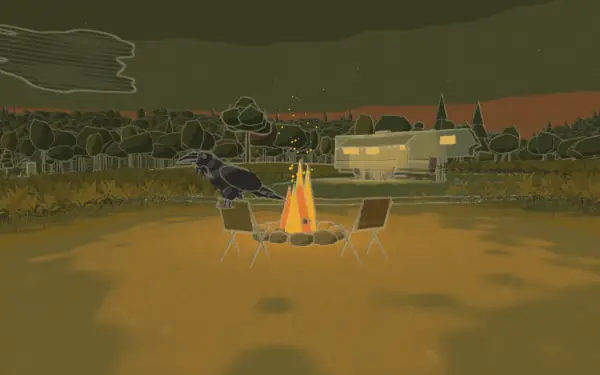
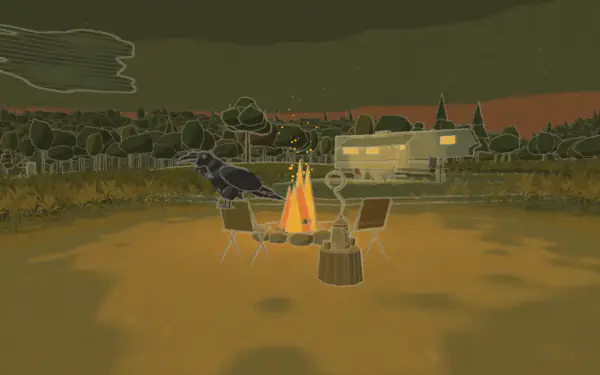
Buy us a coffee, by the fire: a pot and two mugs on a stump, and one line in the card
Chad likes how the coffee is worked into /road (the gas pump under the big
cup) and wanted the same on the home page, in this site's own look.

At the fire stop there is now an enamel coffee pot and two mugs on a stump,
with steam that curls round into a ring. Tap it and it says "same old cycle.
water, fire, coffee." Under that stop's buttons sits one small line with a
goldenrod mug: "The fire runs on dead wood. We run on coffee. If the films
are worth a cup to you, you can buy us a coffee." It is the only coffee link
on the page now: the plain one in the say hi card moved here.

The still print for the plain page was shot again so the pot is in it.

Changed region(s): [[0.51, 0.528, 0.63, 0.7627], [0.54, 0.44, 0.6, 0.528], [0.48, 0.44, 0.51, 0.4693]]

diff --git a/index.html b/index.html
@@ -28,7 +28,7 @@
 <link rel="stylesheet" href="style.css?v=29bf8e89">
 <script>var R=document.documentElement;R.classList.add("js");setTimeout(function(){if(!window.SOS_READY)R.classList.remove("js");},3000);try{var t=localStorage.getItem("sos_theme");if(t==="night"||t==="day")R.dataset.theme=t;}catch(_){}var U=navigator.userAgent,A=/Instagram/.test(U)?"instagram":/FBAN|FBAV/.test(U)?"facebook":/musical_ly|Bytedance|TikTok/i.test(U)?"tiktok":/Pinterest/.test(U)?"pinterest":"";if(A)R.dataset.app=A;if(A==="pinterest"||/pinterest\./i.test(document.referrer))R.dataset.from="pin";</script>
 <style>:root{--ring-url:url("images/ring-norules-pepper.svg");--mark-url:url("images/mark-pepper.svg");}</style>
-<link rel="stylesheet" href="walk/walk.css?v=68c496a7">
+<link rel="stylesheet" href="walk/walk.css?v=1aa94919">
 <script>(function(){var d=document.documentElement,q=location.search,gl=false,calm=false;try{gl=!!document.createElement("canvas").getContext("webgl2");calm=matchMedia("(prefers-reduced-motion: reduce)").matches;}catch(_){}var on=gl&&!/[?&]plain\b/.test(q)&&(!calm||/[?&]walk\b/.test(q));d.classList.add(on?"walk-on":"walk-plain");if(gl&&!on)d.classList.add("walk-can");if(on)setTimeout(function(){if(!window.SOS_WALK){d.classList.remove("walk-on");d.classList.add("walk-plain");}},8000);})();</script>
 <script type="application/ld+json">{"@context": "https://schema.org", "@type": "Organization", "name": "Same Old Samsara", "url": "https://sameoldsamsara.xyz/", "logo": "https://sameoldsamsara.xyz/favicon/web-app-manifest-512x512.png", "description": "Same Old Samsara is the creative outlet of Chad and Daniel: a documentary about building a homestead on 34 acres in Central New York, handmade beaded jewelry, and brick stitch and bead loom patterns.", "sameAs": ["https://www.youtube.com/@sameoldsamsara", "https://instagram.com/sameoldsamsara", "https://tiktok.com/@sameoldsamsara", "https://pinterest.com/sameoldsamsara", "https://sameoldsamsara.etsy.com", "https://samsaradigitals.etsy.com"]}</script>
 <script type="application/ld+json">{"@context": "https://schema.org", "@type": "WebSite", "name": "Same Old Samsara", "url": "https://sameoldsamsara.xyz/"}</script>
@@ -122,12 +122,12 @@
     </div>
   </article>
   <article class="stop right" id="stop-follow" data-stop="6">
-    <picture><source type="image/webp" media="(max-width: 760px)" srcset="images/r/walk/6-follow-480.webp 480w, images/r/walk/6-follow-600.webp 600w" sizes="330px"><source type="image/webp" srcset="images/r/walk/6-follow-720.webp 720w, images/walk/6-follow.webp 1280w" sizes="620px"><img class="still" src="images/walk/6-follow.webp" alt="A print of a campfire at nightfall with two camp chairs pulled up to it, a raven on the back of one, and a camper with its windows lit in the distance." width="1280" height="800" loading="lazy" decoding="async"></picture>
+    <picture><source type="image/webp" media="(max-width: 760px)" srcset="images/r/walk/6-follow-480.webp 480w, images/r/walk/6-follow-600.webp 600w" sizes="330px"><source type="image/webp" srcset="images/r/walk/6-follow-720.webp 720w, images/walk/6-follow.webp 1280w" sizes="620px"><img class="still" src="images/walk/6-follow.webp" alt="A print of a campfire at nightfall with two camp chairs pulled up to it, a raven on the back of one, a coffee pot and two mugs on a stump by the fire, and a camper with its windows lit in the distance." width="1280" height="800" loading="lazy" decoding="async"></picture>
     <div class="card"><span class="was" id="follow"></span>
       <p class="label where"><span>stop 6 of 8</span><span class="light">dusk</span></p>
       <h2>follow along</h2>
       <p>Pull up a chair. New films go up on YouTube first. The small stuff in between goes everywhere else.</p>
-      <div class="btns"><a class="btn solid" href="https://www.youtube.com/@sameoldsamsara" target="_blank" rel="noopener">youtube</a><a class="btn" href="https://instagram.com/sameoldsamsara" target="_blank" rel="noopener">instagram</a><a class="btn" href="https://tiktok.com/@sameoldsamsara" target="_blank" rel="noopener">tiktok</a><a class="btn" href="https://pinterest.com/sameoldsamsara" target="_blank" rel="noopener">pinterest</a></div>
+      <div class="btns"><a class="btn solid" href="https://www.youtube.com/@sameoldsamsara" target="_blank" rel="noopener">youtube</a><a class="btn" href="https://instagram.com/sameoldsamsara" target="_blank" rel="noopener">instagram</a><a class="btn" href="https://tiktok.com/@sameoldsamsara" target="_blank" rel="noopener">tiktok</a><a class="btn" href="https://pinterest.com/sameoldsamsara" target="_blank" rel="noopener">pinterest</a></div><p class="cup"><svg class="cup-i" viewBox="0 0 40 50" aria-hidden="true"><path class="st" d="M19.5 22c-3.4-3.6 3-6.2-.2-10.4a4.3 4.3 0 1 1-3.9 2.6"/><path class="mug" d="M8 26h21v13a6 6 0 0 1-6 6h-9a6 6 0 0 1-6-6z"/><path d="M29 30h2.5a4 4 0 0 1 0 8H29"/><path d="M11.5 31.5v8"/></svg><span>The fire runs on dead wood. We run on coffee. If the films are worth a cup to you, you can <a href="https://buymeacoffee.com/sameoldsamsara" target="_blank" rel="noopener">buy us a coffee</a>.</span></p>
     </div>
   </article>
   <article class="stop left" id="stop-say-hi" data-stop="7">
@@ -136,7 +136,7 @@
       <p class="label where"><span>stop 7 of 8</span><span class="light">night</span></p>
       <h2>say hi</h2>
       <div class="us"><picture><source type="image/webp" srcset="images/r/daniel_and_chad-240.webp 240w" sizes="(max-width: 760px) 96px, 96px"><img src="images/daniel_and_chad.webp" alt="Chad and Daniel, side by side in front of a wooden fence" width="440" height="440" loading="lazy" decoding="async"></picture><p>That's us. Write to us, we read everything. Or sign up for the newsletter and we'll write when there's something worth saying.</p></div>
-      <div class="btns"><a class="btn solid" href="say-hi/" data-hi="74776c3877706976714b7a6c6a777a7569767f707578">email us</a><a class="btn" href="https://instagram.com/sameoldsamsara" target="_blank" rel="noopener">message us on instagram</a><a class="btn" href="https://docs.google.com/forms/d/e/1FAIpQLScRgNsfZYcnLNtfIYfRxKKghsxMu-UJ_4P8csSh8ErWM_AfNA/viewform?usp=header" target="_blank" rel="noopener">the newsletter</a><a class="btn" href="https://buymeacoffee.com/sameoldsamsara" target="_blank" rel="noopener">buy us a coffee</a><a class="btn" href="about/">who we are</a></div>
+      <div class="btns"><a class="btn solid" href="say-hi/" data-hi="74776c3877706976714b7a6c6a777a7569767f707578">email us</a><a class="btn" href="https://instagram.com/sameoldsamsara" target="_blank" rel="noopener">message us on instagram</a><a class="btn" href="https://docs.google.com/forms/d/e/1FAIpQLScRgNsfZYcnLNtfIYfRxKKghsxMu-UJ_4P8csSh8ErWM_AfNA/viewform?usp=header" target="_blank" rel="noopener">the newsletter</a><a class="btn" href="about/">who we are</a></div>
     </div>
   </article>
   <article class="stop left" id="stop-road" data-stop="8">
@@ -156,7 +156,7 @@
     </div>
   </div>
 </div>
-</section></main><script type="module" src="walk/walk.js?v=3d059c28"></script><footer class="foot"><div class="wrap">
+</section></main><script type="module" src="walk/walk.js?v=174125a2"></script><footer class="foot"><div class="wrap">
   <div class="foot-ring" aria-hidden="true"></div>
   <p class="tagline">the same old cycle.</p>
   <nav class="foot-follow" aria-label="follow along"><span class="label">follow along</span><a href="https://www.youtube.com/@sameoldsamsara" target="_blank" rel="noopener">youtube</a><a href="https://instagram.com/sameoldsamsara" target="_blank" rel="noopener">instagram</a><a href="https://tiktok.com/@sameoldsamsara" target="_blank" rel="noopener">tiktok</a><a href="https://pinterest.com/sameoldsamsara" target="_blank" rel="noopener">pinterest</a></nav>

diff --git a/ig/index.html b/ig/index.html
@@ -28,7 +28,7 @@
 <link rel="stylesheet" href="../style.css?v=29bf8e89">
 <script>var R=document.documentElement;R.classList.add("js");setTimeout(function(){if(!window.SOS_READY)R.classList.remove("js");},3000);try{var t=localStorage.getItem("sos_theme");if(t==="night"||t==="day")R.dataset.theme=t;}catch(_){}var U=navigator.userAgent,A=/Instagram/.test(U)?"instagram":/FBAN|FBAV/.test(U)?"facebook":/musical_ly|Bytedance|TikTok/i.test(U)?"tiktok":/Pinterest/.test(U)?"pinterest":"";if(A)R.dataset.app=A;if(A==="pinterest"||/pinterest\./i.test(document.referrer))R.dataset.from="pin";</script>
 <style>:root{--ring-url:url("../images/ring-norules-pepper.svg");--mark-url:url("../images/mark-pepper.svg");}</style>
-<link rel="stylesheet" href="../walk/walk.css?v=68c496a7">
+<link rel="stylesheet" href="../walk/walk.css?v=1aa94919">
 <script>(function(){var d=document.documentElement,q=location.search,gl=false,calm=false;try{gl=!!document.createElement("canvas").getContext("webgl2");calm=matchMedia("(prefers-reduced-motion: reduce)").matches;}catch(_){}var on=gl&&!/[?&]plain\b/.test(q)&&(!calm||/[?&]walk\b/.test(q));d.classList.add(on?"walk-on":"walk-plain");if(gl&&!on)d.classList.add("walk-can");if(on)setTimeout(function(){if(!window.SOS_WALK){d.classList.remove("walk-on");d.classList.add("walk-plain");}},8000);})();</script>
 </head>
 <body class="has-walk">
@@ -119,12 +119,12 @@
     </div>
   </article>
   <article class="stop right" id="stop-follow" data-stop="6">
-    <picture><source type="image/webp" media="(max-width: 760px)" srcset="../images/r/walk/6-follow-480.webp 480w, ../images/r/walk/6-follow-600.webp 600w" sizes="330px"><source type="image/webp" srcset="../images/r/walk/6-follow-720.webp 720w, ../images/walk/6-follow.webp 1280w" sizes="620px"><img class="still" src="../images/walk/6-follow.webp" alt="A print of a campfire at nightfall with two camp chairs pulled up to it, a raven on the back of one, and a camper with its windows lit in the distance." width="1280" height="800" loading="lazy" decoding="async"></picture>
+    <picture><source type="image/webp" media="(max-width: 760px)" srcset="../images/r/walk/6-follow-480.webp 480w, ../images/r/walk/6-follow-600.webp 600w" sizes="330px"><source type="image/webp" srcset="../images/r/walk/6-follow-720.webp 720w, ../images/walk/6-follow.webp 1280w" sizes="620px"><img class="still" src="../images/walk/6-follow.webp" alt="A print of a campfire at nightfall with two camp chairs pulled up to it, a raven on the back of one, a coffee pot and two mugs on a stump by the fire, and a camper with its windows lit in the distance." width="1280" height="800" loading="lazy" decoding="async"></picture>
     <div class="card"><span class="was" id="follow"></span>
       <p class="label where"><span>stop 6 of 8</span><span class="light">dusk</span></p>
       <h2>follow along</h2>
       <p>Pull up a chair. New films go up on YouTube first. The small stuff in between goes everywhere else.</p>
-      <div class="btns"><a class="btn solid" href="https://www.youtube.com/@sameoldsamsara" target="_blank" rel="noopener">youtube</a><a class="btn" href="https://instagram.com/sameoldsamsara" target="_blank" rel="noopener">instagram</a><a class="btn" href="https://tiktok.com/@sameoldsamsara" target="_blank" rel="noopener">tiktok</a><a class="btn" href="https://pinterest.com/sameoldsamsara" target="_blank" rel="noopener">pinterest</a></div>
+      <div class="btns"><a class="btn solid" href="https://www.youtube.com/@sameoldsamsara" target="_blank" rel="noopener">youtube</a><a class="btn" href="https://instagram.com/sameoldsamsara" target="_blank" rel="noopener">instagram</a><a class="btn" href="https://tiktok.com/@sameoldsamsara" target="_blank" rel="noopener">tiktok</a><a class="btn" href="https://pinterest.com/sameoldsamsara" target="_blank" rel="noopener">pinterest</a></div><p class="cup"><svg class="cup-i" viewBox="0 0 40 50" aria-hidden="true"><path class="st" d="M19.5 22c-3.4-3.6 3-6.2-.2-10.4a4.3 4.3 0 1 1-3.9 2.6"/><path class="mug" d="M8 26h21v13a6 6 0 0 1-6 6h-9a6 6 0 0 1-6-6z"/><path d="M29 30h2.5a4 4 0 0 1 0 8H29"/><path d="M11.5 31.5v8"/></svg><span>The fire runs on dead wood. We run on coffee. If the films are worth a cup to you, you can <a href="https://buymeacoffee.com/sameoldsamsara" target="_blank" rel="noopener">buy us a coffee</a>.</span></p>
     </div>
   </article>
   <article class="stop left" id="stop-say-hi" data-stop="7">
@@ -133,7 +133,7 @@
       <p class="label where"><span>stop 7 of 8</span><span class="light">night</span></p>
       <h2>say hi</h2>
       <div class="us"><picture><source type="image/webp" srcset="../images/r/daniel_and_chad-240.webp 240w" sizes="(max-width: 760px) 96px, 96px"><img src="../images/daniel_and_chad.webp" alt="Chad and Daniel, side by side in front of a wooden fence" width="440" height="440" loading="lazy" decoding="async"></picture><p>That's us. Write to us, we read everything. Or sign up for the newsletter and we'll write when there's something worth saying.</p></div>
-      <div class="btns"><a class="btn solid" href="../say-hi/" data-hi="74776c3877706976714b7a6c6a777a7569767f707578">email us</a><a class="btn" href="https://instagram.com/sameoldsamsara" target="_blank" rel="noopener">message us on instagram</a><a class="btn" href="https://docs.google.com/forms/d/e/1FAIpQLScRgNsfZYcnLNtfIYfRxKKghsxMu-UJ_4P8csSh8ErWM_AfNA/viewform?usp=header" target="_blank" rel="noopener">the newsletter</a><a class="btn" href="https://buymeacoffee.com/sameoldsamsara" target="_blank" rel="noopener">buy us a coffee</a><a class="btn" href="../about/">who we are</a></div>
+      <div class="btns"><a class="btn solid" href="../say-hi/" data-hi="74776c3877706976714b7a6c6a777a7569767f707578">email us</a><a class="btn" href="https://instagram.com/sameoldsamsara" target="_blank" rel="noopener">message us on instagram</a><a class="btn" href="https://docs.google.com/forms/d/e/1FAIpQLScRgNsfZYcnLNtfIYfRxKKghsxMu-UJ_4P8csSh8ErWM_AfNA/viewform?usp=header" target="_blank" rel="noopener">the newsletter</a><a class="btn" href="../about/">who we are</a></div>
     </div>
   </article>
   <article class="stop left" id="stop-road" data-stop="8">
@@ -153,7 +153,7 @@
     </div>
   </div>
 </div>
-</section></main><script type="module" src="../walk/walk.js?v=3d059c28"></script><footer class="foot"><div class="wrap">
+</section></main><script type="module" src="../walk/walk.js?v=174125a2"></script><footer class="foot"><div class="wrap">
   <div class="foot-ring" aria-hidden="true"></div>
   <p class="tagline">the same old cycle.</p>
   <nav class="foot-follow" aria-label="follow along"><span class="label">follow along</span><a href="https://www.youtube.com/@sameoldsamsara" target="_blank" rel="noopener">youtube</a><a href="https://instagram.com/sameoldsamsara" target="_blank" rel="noopener">instagram</a><a href="https://tiktok.com/@sameoldsamsara" target="_blank" rel="noopener">tiktok</a><a href="https://pinterest.com/sameoldsamsara" target="_blank" rel="noopener">pinterest</a></nav>

diff --git a/pin/index.html b/pin/index.html
@@ -28,7 +28,7 @@
 <link rel="stylesheet" href="../style.css?v=29bf8e89">
 <script>var R=document.documentElement;R.classList.add("js");setTimeout(function(){if(!window.SOS_READY)R.classList.remove("js");},3000);try{var t=localStorage.getItem("sos_theme");if(t==="night"||t==="day")R.dataset.theme=t;}catch(_){}var U=navigator.userAgent,A=/Instagram/.test(U)?"instagram":/FBAN|FBAV/.test(U)?"facebook":/musical_ly|Bytedance|TikTok/i.test(U)?"tiktok":/Pinterest/.test(U)?"pinterest":"";if(A)R.dataset.app=A;if(A==="pinterest"||/pinterest\./i.test(document.referrer))R.dataset.from="pin";</script>
 <style>:root{--ring-url:url("../images/ring-norules-pepper.svg");--mark-url:url("../images/mark-pepper.svg");}</style>
-<link rel="stylesheet" href="../walk/walk.css?v=68c496a7">
+<link rel="stylesheet" href="../walk/walk.css?v=1aa94919">
 <script>(function(){var d=document.documentElement,q=location.search,gl=false,calm=false;try{gl=!!document.createElement("canvas").getContext("webgl2");calm=matchMedia("(prefers-reduced-motion: reduce)").matches;}catch(_){}var on=gl&&!/[?&]plain\b/.test(q)&&(!calm||/[?&]walk\b/.test(q));d.classList.add(on?"walk-on":"walk-plain");if(gl&&!on)d.classList.add("walk-can");if(on)setTimeout(function(){if(!window.SOS_WALK){d.classList.remove("walk-on");d.classList.add("walk-plain");}},8000);})();</script>
 </head>
 <body class="has-walk">
@@ -119,12 +119,12 @@
     </div>
   </article>
   <article class="stop right" id="stop-follow" data-stop="6">
-    <picture><source type="image/webp" media="(max-width: 760px)" srcset="../images/r/walk/6-follow-480.webp 480w, ../images/r/walk/6-follow-600.webp 600w" sizes="330px"><source type="image/webp" srcset="../images/r/walk/6-follow-720.webp 720w, ../images/walk/6-follow.webp 1280w" sizes="620px"><img class="still" src="../images/walk/6-follow.webp" alt="A print of a campfire at nightfall with two camp chairs pulled up to it, a raven on the back of one, and a camper with its windows lit in the distance." width="1280" height="800" loading="lazy" decoding="async"></picture>
+    <picture><source type="image/webp" media="(max-width: 760px)" srcset="../images/r/walk/6-follow-480.webp 480w, ../images/r/walk/6-follow-600.webp 600w" sizes="330px"><source type="image/webp" srcset="../images/r/walk/6-follow-720.webp 720w, ../images/walk/6-follow.webp 1280w" sizes="620px"><img class="still" src="../images/walk/6-follow.webp" alt="A print of a campfire at nightfall with two camp chairs pulled up to it, a raven on the back of one, a coffee pot and two mugs on a stump by the fire, and a camper with its windows lit in the distance." width="1280" height="800" loading="lazy" decoding="async"></picture>
     <div class="card"><span class="was" id="follow"></span>
       <p class="label where"><span>stop 6 of 8</span><span class="light">dusk</span></p>
       <h2>follow along</h2>
       <p>Pull up a chair. New films go up on YouTube first. The small stuff in between goes everywhere else.</p>
-      <div class="btns"><a class="btn solid" href="https://www.youtube.com/@sameoldsamsara" target="_blank" rel="noopener">youtube</a><a class="btn" href="https://instagram.com/sameoldsamsara" target="_blank" rel="noopener">instagram</a><a class="btn" href="https://tiktok.com/@sameoldsamsara" target="_blank" rel="noopener">tiktok</a><a class="btn" href="https://pinterest.com/sameoldsamsara" target="_blank" rel="noopener">pinterest</a></div>
+      <div class="btns"><a class="btn solid" href="https://www.youtube.com/@sameoldsamsara" target="_blank" rel="noopener">youtube</a><a class="btn" href="https://instagram.com/sameoldsamsara" target="_blank" rel="noopener">instagram</a><a class="btn" href="https://tiktok.com/@sameoldsamsara" target="_blank" rel="noopener">tiktok</a><a class="btn" href="https://pinterest.com/sameoldsamsara" target="_blank" rel="noopener">pinterest</a></div><p class="cup"><svg class="cup-i" viewBox="0 0 40 50" aria-hidden="true"><path class="st" d="M19.5 22c-3.4-3.6 3-6.2-.2-10.4a4.3 4.3 0 1 1-3.9 2.6"/><path class="mug" d="M8 26h21v13a6 6 0 0 1-6 6h-9a6 6 0 0 1-6-6z"/><path d="M29 30h2.5a4 4 0 0 1 0 8H29"/><path d="M11.5 31.5v8"/></svg><span>The fire runs on dead wood. We run on coffee. If the films are worth a cup to you, you can <a href="https://buymeacoffee.com/sameoldsamsara" target="_blank" rel="noopener">buy us a coffee</a>.</span></p>
     </div>
   </article>
   <article class="stop left" id="stop-say-hi" data-stop="7">
@@ -133,7 +133,7 @@
       <p class="label where"><span>stop 7 of 8</span><span class="light">night</span></p>
       <h2>say hi</h2>
       <div class="us"><picture><source type="image/webp" srcset="../images/r/daniel_and_chad-240.webp 240w" sizes="(max-width: 760px) 96px, 96px"><img src="../images/daniel_and_chad.webp" alt="Chad and Daniel, side by side in front of a wooden fence" width="440" height="440" loading="lazy" decoding="async"></picture><p>That's us. Write to us, we read everything. Or sign up for the newsletter and we'll write when there's something worth saying.</p></div>
-      <div class="btns"><a class="btn solid" href="../say-hi/" data-hi="74776c3877706976714b7a6c6a777a7569767f707578">email us</a><a class="btn" href="https://instagram.com/sameoldsamsara" target="_blank" rel="noopener">message us on instagram</a><a class="btn" href="https://docs.google.com/forms/d/e/1FAIpQLScRgNsfZYcnLNtfIYfRxKKghsxMu-UJ_4P8csSh8ErWM_AfNA/viewform?usp=header" target="_blank" rel="noopener">the newsletter</a><a class="btn" href="https://buymeacoffee.com/sameoldsamsara" target="_blank" rel="noopener">buy us a coffee</a><a class="btn" href="../about/">who we are</a></div>
+      <div class="btns"><a class="btn solid" href="../say-hi/" data-hi="74776c3877706976714b7a6c6a777a7569767f707578">email us</a><a class="btn" href="https://instagram.com/sameoldsamsara" target="_blank" rel="noopener">message us on instagram</a><a class="btn" href="https://docs.google.com/forms/d/e/1FAIpQLScRgNsfZYcnLNtfIYfRxKKghsxMu-UJ_4P8csSh8ErWM_AfNA/viewform?usp=header" target="_blank" rel="noopener">the newsletter</a><a class="btn" href="../about/">who we are</a></div>
     </div>
   </article>
   <article class="stop left" id="stop-road" data-stop="8">
@@ -153,7 +153,7 @@
     </div>
   </div>
 </div>
-</section></main><script type="module" src="../walk/walk.js?v=3d059c28"></script><footer class="foot"><div class="wrap">
+</section></main><script type="module" src="../walk/walk.js?v=174125a2"></script><footer class="foot"><div class="wrap">
   <div class="foot-ring" aria-hidden="true"></div>
   <p class="tagline">the same old cycle.</p>
   <nav class="foot-follow" aria-label="follow along"><span class="label">follow along</span><a href="https://www.youtube.com/@sameoldsamsara" target="_blank" rel="noopener">youtube</a><a href="https://instagram.com/sameoldsamsara" target="_blank" rel="noopener">instagram</a><a href="https://tiktok.com/@sameoldsamsara" target="_blank" rel="noopener">tiktok</a><a href="https://pinterest.com/sameoldsamsara" target="_blank" rel="noopener">pinterest</a></nav>

diff --git a/yt/index.html b/yt/index.html
@@ -28,7 +28,7 @@
 <link rel="stylesheet" href="../style.css?v=29bf8e89">
 <script>var R=document.documentElement;R.classList.add("js");setTimeout(function(){if(!window.SOS_READY)R.classList.remove("js");},3000);try{var t=localStorage.getItem("sos_theme");if(t==="night"||t==="day")R.dataset.theme=t;}catch(_){}var U=navigator.userAgent,A=/Instagram/.test(U)?"instagram":/FBAN|FBAV/.test(U)?"facebook":/musical_ly|Bytedance|TikTok/i.test(U)?"tiktok":/Pinterest/.test(U)?"pinterest":"";if(A)R.dataset.app=A;if(A==="pinterest"||/pinterest\./i.test(document.referrer))R.dataset.from="pin";</script>
 <style>:root{--ring-url:url("../images/ring-norules-pepper.svg");--mark-url:url("../images/mark-pepper.svg");}</style>
-<link rel="stylesheet" href="../walk/walk.css?v=68c496a7">
+<link rel="stylesheet" href="../walk/walk.css?v=1aa94919">
 <script>(function(){var d=document.documentElement,q=location.search,gl=false,calm=false;try{gl=!!document.createElement("canvas").getContext("webgl2");calm=matchMedia("(prefers-reduced-motion: reduce)").matches;}catch(_){}var on=gl&&!/[?&]plain\b/.test(q)&&(!calm||/[?&]walk\b/.test(q));d.classList.add(on?"walk-on":"walk-plain");if(gl&&!on)d.classList.add("walk-can");if(on)setTimeout(function(){if(!window.SOS_WALK){d.classList.remove("walk-on");d.classList.add("walk-plain");}},8000);})();</script>
 </head>
 <body class="has-walk">
@@ -119,12 +119,12 @@
     </div>
   </article>
   <article class="stop right" id="stop-follow" data-stop="6">
-    <picture><source type="image/webp" media="(max-width: 760px)" srcset="../images/r/walk/6-follow-480.webp 480w, ../images/r/walk/6-follow-600.webp 600w" sizes="330px"><source type="image/webp" srcset="../images/r/walk/6-follow-720.webp 720w, ../images/walk/6-follow.webp 1280w" sizes="620px"><img class="still" src="../images/walk/6-follow.webp" alt="A print of a campfire at nightfall with two camp chairs pulled up to it, a raven on the back of one, and a camper with its windows lit in the distance." width="1280" height="800" loading="lazy" decoding="async"></picture>
+    <picture><source type="image/webp" media="(max-width: 760px)" srcset="../images/r/walk/6-follow-480.webp 480w, ../images/r/walk/6-follow-600.webp 600w" sizes="330px"><source type="image/webp" srcset="../images/r/walk/6-follow-720.webp 720w, ../images/walk/6-follow.webp 1280w" sizes="620px"><img class="still" src="../images/walk/6-follow.webp" alt="A print of a campfire at nightfall with two camp chairs pulled up to it, a raven on the back of one, a coffee pot and two mugs on a stump by the fire, and a camper with its windows lit in the distance." width="1280" height="800" loading="lazy" decoding="async"></picture>
     <div class="card"><span class="was" id="follow"></span>
       <p class="label where"><span>stop 6 of 8</span><span class="light">dusk</span></p>
       <h2>follow along</h2>
       <p>Pull up a chair. New films go up on YouTube first. The small stuff in between goes everywhere else.</p>
-      <div class="btns"><a class="btn solid" href="https://www.youtube.com/@sameoldsamsara" target="_blank" rel="noopener">youtube</a><a class="btn" href="https://instagram.com/sameoldsamsara" target="_blank" rel="noopener">instagram</a><a class="btn" href="https://tiktok.com/@sameoldsamsara" target="_blank" rel="noopener">tiktok</a><a class="btn" href="https://pinterest.com/sameoldsamsara" target="_blank" rel="noopener">pinterest</a></div>
+      <div class="btns"><a class="btn solid" href="https://www.youtube.com/@sameoldsamsara" target="_blank" rel="noopener">youtube</a><a class="btn" href="https://instagram.com/sameoldsamsara" target="_blank" rel="noopener">instagram</a><a class="btn" href="https://tiktok.com/@sameoldsamsara" target="_blank" rel="noopener">tiktok</a><a class="btn" href="https://pinterest.com/sameoldsamsara" target="_blank" rel="noopener">pinterest</a></div><p class="cup"><svg class="cup-i" viewBox="0 0 40 50" aria-hidden="true"><path class="st" d="M19.5 22c-3.4-3.6 3-6.2-.2-10.4a4.3 4.3 0 1 1-3.9 2.6"/><path class="mug" d="M8 26h21v13a6 6 0 0 1-6 6h-9a6 6 0 0 1-6-6z"/><path d="M29 30h2.5a4 4 0 0 1 0 8H29"/><path d="M11.5 31.5v8"/></svg><span>The fire runs on dead wood. We run on coffee. If the films are worth a cup to you, you can <a href="https://buymeacoffee.com/sameoldsamsara" target="_blank" rel="noopener">buy us a coffee</a>.</span></p>
     </div>
   </article>
   <article class="stop left" id="stop-say-hi" data-stop="7">
@@ -133,7 +133,7 @@
       <p class="label where"><span>stop 7 of 8</span><span class="light">night</span></p>
       <h2>say hi</h2>
       <div class="us"><picture><source type="image/webp" srcset="../images/r/daniel_and_chad-240.webp 240w" sizes="(max-width: 760px) 96px, 96px"><img src="../images/daniel_and_chad.webp" alt="Chad and Daniel, side by side in front of a wooden fence" width="440" height="440" loading="lazy" decoding="async"></picture><p>That's us. Write to us, we read everything. Or sign up for the newsletter and we'll write when there's something worth saying.</p></div>
-      <div class="btns"><a class="btn solid" href="../say-hi/" data-hi="74776c3877706976714b7a6c6a777a7569767f707578">email us</a><a class="btn" href="https://instagram.com/sameoldsamsara" target="_blank" rel="noopener">message us on instagram</a><a class="btn" href="https://docs.google.com/forms/d/e/1FAIpQLScRgNsfZYcnLNtfIYfRxKKghsxMu-UJ_4P8csSh8ErWM_AfNA/viewform?usp=header" target="_blank" rel="noopener">the newsletter</a><a class="btn" href="https://buymeacoffee.com/sameoldsamsara" target="_blank" rel="noopener">buy us a coffee</a><a class="btn" href="../about/">who we are</a></div>
+      <div class="btns"><a class="btn solid" href="../say-hi/" data-hi="74776c3877706976714b7a6c6a777a7569767f707578">email us</a><a class="btn" href="https://instagram.com/sameoldsamsara" target="_blank" rel="noopener">message us on instagram</a><a class="btn" href="https://docs.google.com/forms/d/e/1FAIpQLScRgNsfZYcnLNtfIYfRxKKghsxMu-UJ_4P8csSh8ErWM_AfNA/viewform?usp=header" target="_blank" rel="noopener">the newsletter</a><a class="btn" href="../about/">who we are</a></div>
     </div>
   </article>
   <article class="stop left" id="stop-road" data-stop="8">
@@ -153,7 +153,7 @@
     </div>
   </div>
 </div>
-</section></main><script type="module" src="../walk/walk.js?v=3d059c28"></script><footer class="foot"><div class="wrap">
+</section></main><script type="module" src="../walk/walk.js?v=174125a2"></script><footer class="foot"><div class="wrap">
   <div class="foot-ring" aria-hidden="true"></div>
   <p class="tagline">the same old cycle.</p>
   <nav class="foot-follow" aria-label="follow along"><span class="label">follow along</span><a href="https://www.youtube.com/@sameoldsamsara" target="_blank" rel="noopener">youtube</a><a href="https://instagram.com/sameoldsamsara" target="_blank" rel="noopener">instagram</a><a href="https://tiktok.com/@sameoldsamsara" target="_blank" rel="noopener">tiktok</a><a href="https://pinterest.com/sameoldsamsara" target="_blank" rel="noopener">pinterest</a></nav>

diff --git a/walk/mesh.js b/walk/mesh.js
@@ -354,6 +354,39 @@ export function flames() {
   return g;
 }
 
+/** the coffee by the fire: a stump with an enamel pot and two mugs on it. a little bigger than life, like a thing in a print.
+    the spout points along +x. (it is how the home page says "buy us a coffee": see the follow stop in build.py) */
+export const POT_TOP = [0, 0.86, 0];                // the knob on the lid, where the steam starts
+export function coffee() {
+  const g = new Geo(), dark = P(INK.PEPPER, STYLE.PLAIN), enamel = P(INK.CREAM, STYLE.PLAIN, 0, 0.22), rim = P(INK.RUST, STYLE.PLAIN, 0, 0.15);          // a little glow: enamel catches the firelight
+  g.add(cyl(0.31, 0.27, 0.4, 9, P(INK.BARK, STYLE.BARK), 1, false));                                    // the stump
+  g.add(cyl(0.27, 0.27, 0.02, 9, P(INK.WOOD, STYLE.STONE), 2), { pos: [0, 0.4, 0] });                    // its cut top
+  // the pot: wide at the bottom, a band of rust round the top, a domed lid with a knob
+  g.add(cyl(0.135, 0.1, 0.3, 10, enamel, 3, false), { pos: [0, 0.42, 0] });
+  g.add(cyl(0.103, 0.1, 0.035, 10, rim, 4, false), { pos: [0, 0.705, 0] });
+  g.add(cyl(0.1, 0.04, 0.07, 10, enamel, 5), { pos: [0, 0.74, 0] });
+  g.add(cyl(0.022, 0.026, 0.045, 6, dark, 6), { pos: [0, 0.81, 0] });
+  g.add(tube([0.09, 0.56, 0], [0.25, 0.7, 0], 0.036, 0.022, 6, enamel, 7));                              // the spout
+  for (const [a, b] of [[[-0.1, 0.68, 0], [-0.23, 0.66, 0]], [[-0.23, 0.66, 0], [-0.24, 0.52, 0]], [[-0.24, 0.52, 0], [-0.125, 0.47, 0]]]) g.add(tube(a, b, 0.017, 0.017, 5, dark, 8, false));   // the handle
+  // two mugs, one each
+  for (const [x, z, ink, turn] of [[0.07, 0.185, INK.RUST, 0.9], [-0.07, -0.19, INK.GOLD, -2.2]]) {
+    const m = new Geo(), paint = P(ink, STYLE.PLAIN, 0, 0.18);
+    m.add(cyl(0.05, 0.057, 0.105, 8, paint, 9, false));
+    m.add(cyl(0.05, 0.05, 0.006, 8, P(INK.BARK, STYLE.PLAIN), 10), { pos: [0, 0.092, 0] });               // coffee, to the brim
+    for (const [a, b] of [[[0.052, 0.085, 0], [0.1, 0.08, 0]], [[0.1, 0.08, 0], [0.1, 0.035, 0]], [[0.1, 0.035, 0], [0.05, 0.025, 0]]]) m.add(tube(a, b, 0.009, 0.009, 4, paint, 9, false));
+    g.add(m, { pos: [x, 0.42, z], yaw: turn });
+  }
+  return g;
+}
+/** steam off the pot: it goes up, and curls round into a ring before it lets go. pivots at its own origin. */
+export function steam() {
+  const g = new Geo(), pale = P(INK.CREAM, STYLE.PLAIN, 0, 0.55), pts = [];
+  for (let k = 0; k <= 9; k++) { const t = k / 9; pts.push([Math.sin(t * 5.2) * 0.05 * (0.4 + t), t * 0.34, 0]); }          // the rise, with a wobble
+  for (let k = 1; k <= 13; k++) { const a = -Math.PI / 2 + (k / 13) * TAU * 0.93; pts.push([pts[9][0] + Math.cos(a) * 0.115, 0.34 + 0.115 + Math.sin(a) * 0.115, 0]); }   // the ring
+  for (let k = 0; k < pts.length - 1; k++) { const w = 0.011 + 0.009 * Math.sin((k / (pts.length - 1)) * Math.PI); g.add(tube(pts[k], pts[k + 1], w, w, 4, pale, 1, false)); }
+  return g;
+}
+
 /** the old apple tree. low, wide, nobody prunes it. */
 export function appleTree() {
   const g = new Geo(), bark = P(INK.BARK, STYLE.BARK), leaf = P(INK.LEAF, STYLE.CANOPY), r = rng(31);

diff --git a/walk/world.js b/walk/world.js
@@ -110,6 +110,11 @@ export class World extends Printer {
     this.chairA = seat(INK.LEAF_DARK, 0.47);
     seat(INK.RUST, -0.47);
     this.flames = put(shapes.flames(), P.fire[0], P.fire[1]);
+    // the coffee: a pot and two mugs on a stump on your side of the fire, just right of the flames so it hides neither them
+    // nor the chairs. the spout points at the fire. the steam is its own piece, so it can turn.
+    const [cx, cz] = [P.fire[0] + 2.75, P.fire[1] - 0.42];
+    this.pot = put(shapes.coffee(), cx, cz, Math.atan2(cz - P.fire[1], P.fire[0] - cx));
+    this.steam = put(shapes.steam(), cx, cz, 0, shapes.POT_TOP[1] + 0.02, { noShadow: true });
     this.apple = put(shapes.appleTree(), P.apple[0], P.apple[1], 0.4, -0.1);
     this.beads = put(shapes.beadStrands(), P.apple[0], P.apple[1], 0.4, -0.1, { noShadow: true, kick: () => this.beadKick * 1.1 });
     put(shapes.shed(), P.shed[0], P.shed[1], -1.3);
@@ -321,6 +326,9 @@ export class World extends Printer {
     const fl = this.flames, fs = 0.5 + this.fire * 0.7;
     rotY(fl.model, fl.x, fl.y, fl.z, time * 0.3, 1); fl.model[5] = fs; fl.hidden = this.fire < 0.03;
     this.hot.fire = [fl.x, fl.y + 0.7, fl.z];
+    // steam off the coffee: its ring faces the trail and sways a little either way, and it breathes
+    const st = this.steam; rotY(st.model, st.x, st.y, st.z, Math.PI / 2 + Math.sin(time * 0.5) * 0.7, 1); st.model[5] = 0.92 + 0.08 * Math.sin(time * 1.3);
+    this.hot.coffee = [this.pot.x, this.pot.y + 0.95, this.pot.z];
     // the mailbox flag goes up when you get there
     this.flag += (smooth(6.55, 6.95, u) - this.flag) * (1 - Math.exp(-dt * 7));
     const m = this.flagProp.model, ang = (1 - this.flag) * -1.5708, c = Math.cos(ang), s = Math.sin(ang);

diff --git a/walk/walk.css b/walk/walk.css
@@ -26,6 +26,15 @@
 @media (pointer: coarse) { .walk .card .btn { min-height: 44px; padding-block: 0; } }
 .walk .card .yt { margin-top: 14px; box-shadow: none; border: 1px solid var(--rule); }
 .walk .ep-line { margin-top: 8px; }
+/* buy us a coffee: one small line under the fire stop's buttons, with a mug whose steam curls round into a ring */
+.walk .card .cup { display: flex; gap: 12px; align-items: center; margin-top: 16px; padding-top: 13px; border-top: 1px dashed var(--rule); font-size: 14.5px; line-height: 1.5; color: var(--ink-soft); }
+.cup a { color: var(--accent); white-space: nowrap; }
+.cup-i { flex: none; width: 42px; height: 52px; margin: -4px 0 0 -2px; overflow: visible; }
+.cup-i path { fill: none; stroke: var(--ink); stroke-width: 1.7; stroke-linecap: round; stroke-linejoin: round; }
+.cup-i .mug { fill: var(--gold); }
+.cup-i .st { stroke: var(--accent); stroke-width: 1.5; transform-origin: 50% 100%; transform-box: fill-box; animation: steam 4.5s ease-in-out infinite; }
+@keyframes steam { 0%, 100% { transform: translateY(0) scaleY(1); opacity: .95; } 50% { transform: translateY(-1.5px) scaleY(1.07); opacity: .6; } }
+@media (prefers-reduced-motion: reduce) { .cup-i .st { animation: none; } }
 .wear-row { display: grid; grid-template-columns: repeat(4, 1fr); gap: 8px; margin-top: 14px; }
 .wear-row a { display: block; border-radius: 4px; overflow: hidden; border: 1px solid var(--rule); }
 .wear-row img { width: 100%; aspect-ratio: 1; object-fit: cover; transition: transform .4s; }

diff --git a/walk/walk.js b/walk/walk.js
@@ -126,6 +126,7 @@ async function start() {
   const HOT = scene.hot ? scene.hot({ world, say, flash, u: () => uS }) : [
     { id: "raven", label: "the raven", range: 60, when: () => true, act: () => { world.ravenHop = 1; say(RAVEN[clamp(Math.round(uS), 0, RAVEN.length - 1)], "raven"); if (sound && soundOn) sound.caw(); } },
     { id: "fire", label: "poke the fire", range: 30, when: () => world.fire > 0.3, act: () => { world.fireKick = 0.9; say("sparks.", "fire"); } },
+    { id: "coffee", label: "the coffee pot", range: 24, when: () => Math.abs(uS - 6) < 0.6, act: () => say("same old cycle. water, fire, coffee.", "coffee") },
     { id: "apple", label: "shake the apple tree", range: 26, when: () => Math.abs(uS - 3) < 0.7, act: () => { world.beadKick = 1; say("they don't fall off. we tried.", "apple"); } },
     { id: "cam", label: "the trail cam", range: 22, when: () => Math.abs(uS - 5) < 0.6, act: () => { flash(); say("the trail cam got you. now you're in the field guide.", "cam"); } },
     { id: "mailbox", label: "the mailbox", range: 16, when: () => Math.abs(uS - 7) < 0.7, act: () => say("flag's up. that means there's mail going out.", "mailbox") },

diff --git a/road/index.html b/road/index.html
@@ -141,6 +141,6 @@
   (function step(){ if (i >= t.length) return; el.textContent += t[i++]; setTimeout(step, (1000/14) * (0.7 + Math.random()*0.6)); })();
 })();
 </script>
-<script type="module" src="../walk/walk.js?v=3d059c28"></script>
+<script type="module" src="../walk/walk.js?v=174125a2"></script>
 </body>
 </html>

diff --git a/_build/build.py b/_build/build.py
@@ -775,6 +775,14 @@ def hi_button(base, text="email us", solid=True):
     """the say hi button. with scripts off it goes to the say hi page, which says how else to reach us."""
     return f'<a class="btn{" solid" if solid else ""}" href="{base}say-hi/" data-hi="{HI}">{e(text)}</a>'
 
+def coffee_line():
+    """buy us a coffee, the Same Old Samsara way (Chad, Nov 16: like the gas pump stop on /road, in this site's own look).
+    in the walk there is a pot and two mugs on a stump by the fire (walk/mesh.js coffee()), and this line sits under that
+    stop's buttons. one small line, no button, no ask beyond it. it is a tip jar: never say donation, charity or cause."""
+    mug = ('<svg class="cup-i" viewBox="0 0 40 50" aria-hidden="true"><path class="st" d="M19.5 22c-3.4-3.6 3-6.2-.2-10.4a4.3 4.3 0 1 1-3.9 2.6"/>'
+           '<path class="mug" d="M8 26h21v13a6 6 0 0 1-6 6h-9a6 6 0 0 1-6-6z"/><path d="M29 30h2.5a4 4 0 0 1 0 8H29"/><path d="M11.5 31.5v8"/></svg>')
+    return f"""<p class="cup">{mug}<span>The fire runs on dead wood. We run on coffee. If the films are worth a cup to you, you can <a href="{COFFEE}" target="_blank" rel="noopener">buy us a coffee</a>.</span></p>"""
+
 def walk_stops(base):
     """the stops, in the order you meet them. the ids are the 3D world's stop ids (walk/world.js STOP_IDS), so keep the two in step."""
     ep, first = EPISODES[0], EPISODES[-1]
@@ -809,13 +817,14 @@ def walk_stops(base):
          "body": "<p>Who lives here, and what we've found so far. We're not experts, so it's part guessing game. The trail cam got a raccoon on its first night.</p>",
          "links": loc("open the field guide", "land/#critters", True)},
         {"id": "follow", "name": "follow along", "light": "dusk", "side": "right", "was": "follow", "rail": False,      # a stop on the walk, but not in the list of stops (Chad, Nov 12)
-         "alt": "A print of a campfire at nightfall with two camp chairs pulled up to it, a raven on the back of one, and a camper with its windows lit in the distance.",
+         "alt": "A print of a campfire at nightfall with two camp chairs pulled up to it, a raven on the back of one, a coffee pot and two mugs on a stump by the fire, and a camper with its windows lit in the distance.",
          "body": "<p>Pull up a chair. New films go up on YouTube first. The small stuff in between goes everywhere else.</p>",
-         "links": ext("youtube", YT, True) + ext("instagram", IG) + ext("tiktok", TT) + ext("pinterest", PIN)},
+         "links": ext("youtube", YT, True) + ext("instagram", IG) + ext("tiktok", TT) + ext("pinterest", PIN),
+         "after": coffee_line()},
         {"id": "say-hi", "name": "say hi", "light": "night", "side": "left",
          "alt": "A print of a mailbox at night with a little lantern hanging on its post, a raven sitting on the mailbox, and the moon over the trees.",
          "body": f"""<div class="us">{pic(base, US_PHOTO, US_ALT, 96)}<p>That's us. Write to us, we read everything. Or sign up for the newsletter and we'll write when there's something worth saying.</p></div>""",
-         "links": hi_button(base) + ext("message us on instagram", IG) + ext("the newsletter", NEWSLETTER) + ext("buy us a coffee", COFFEE) + loc("who we are", "about/")},
+         "links": hi_button(base) + ext("message us on instagram", IG) + ext("the newsletter", NEWSLETTER) + loc("who we are", "about/")},
         {"id": "road", "name": "the road", "light": "first light", "side": "left",
          "alt": "A print of a country road at first light, seen from the middle of it. It runs east past a goldenrod meadow toward the sunrise, and a raven flies off ahead.",
          "body": "<p>When the cold comes we hitch up and head south. Winters we travel as Pneuma Nomads, and the road has a page of its own.</p>",
